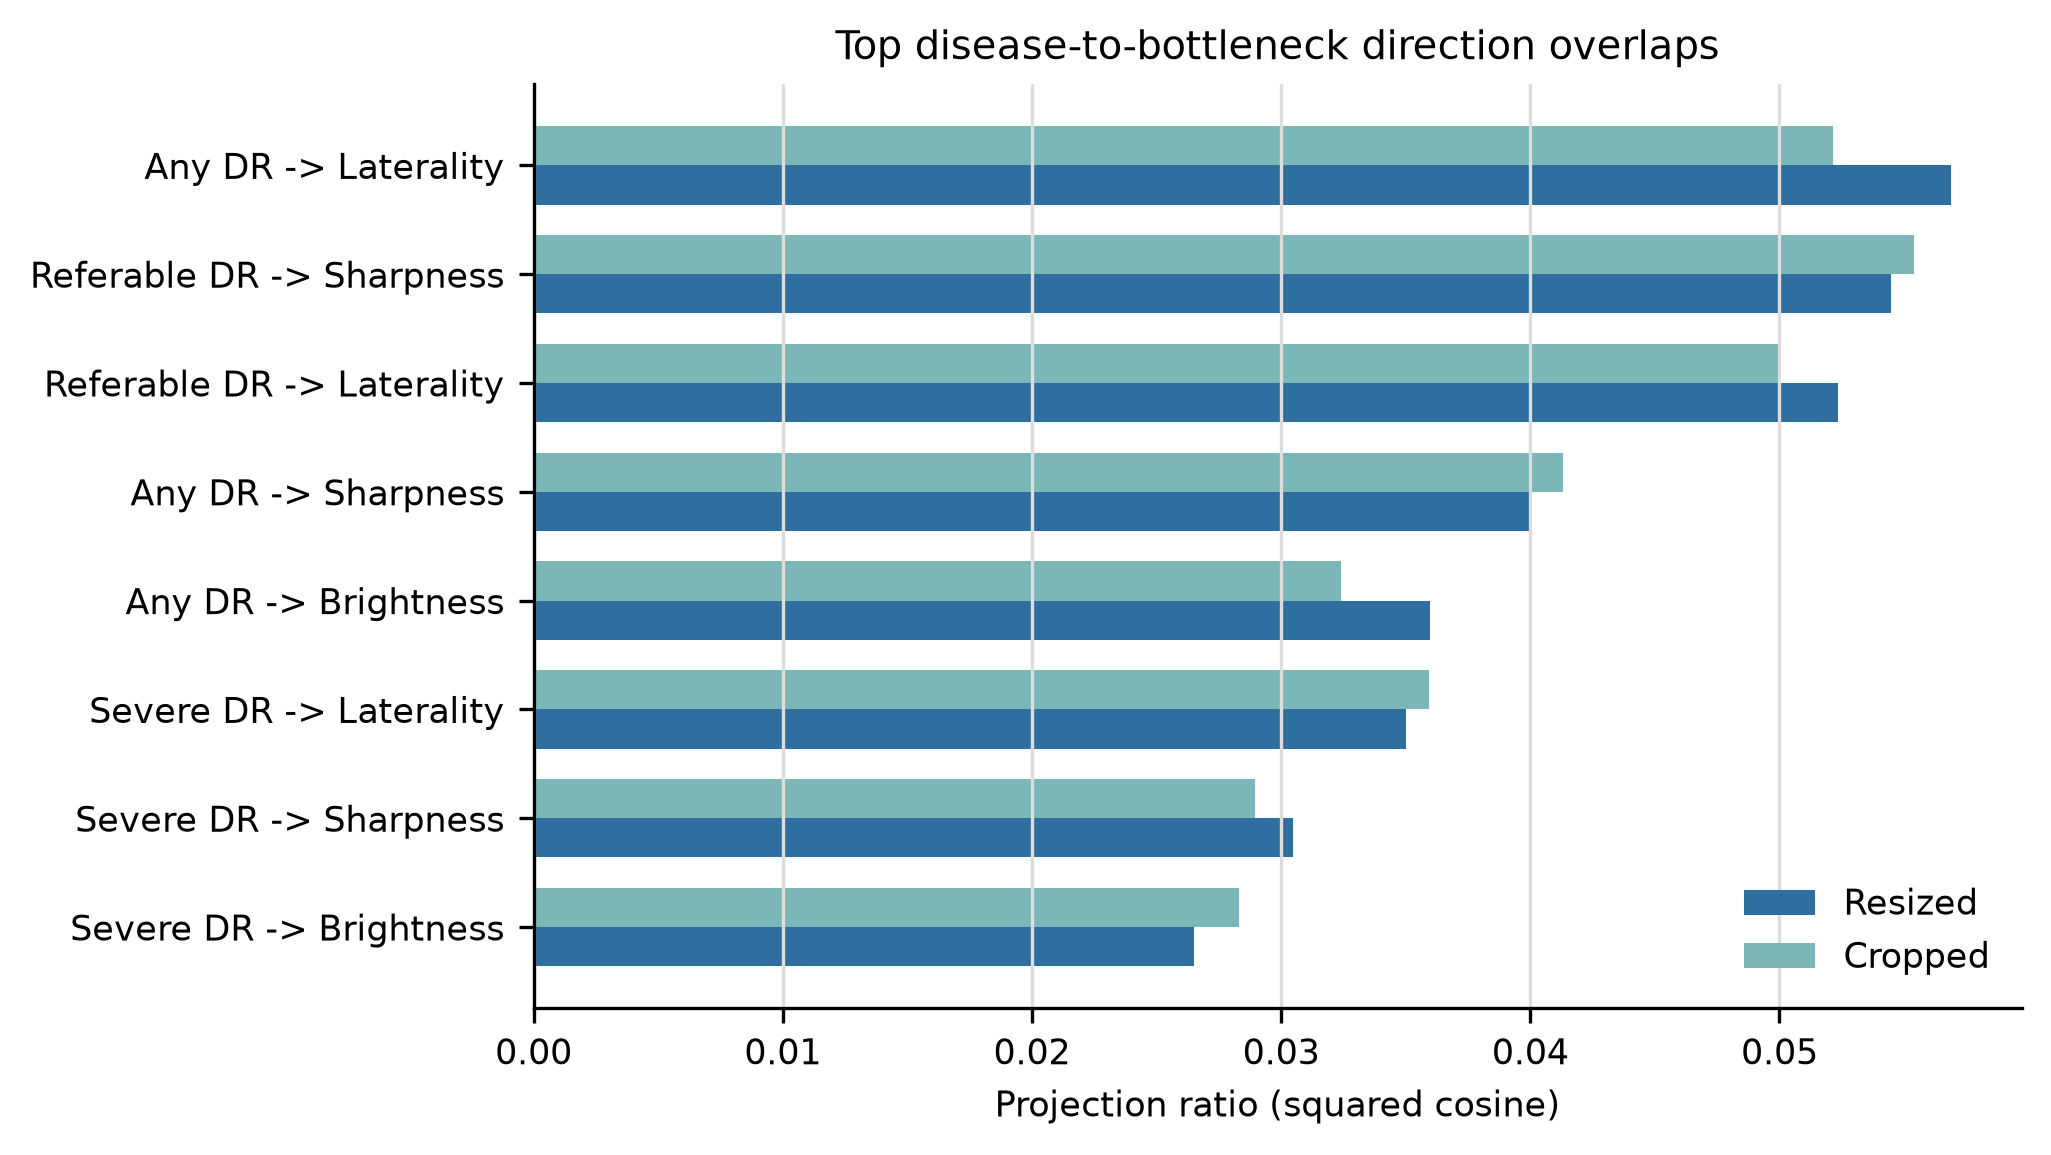
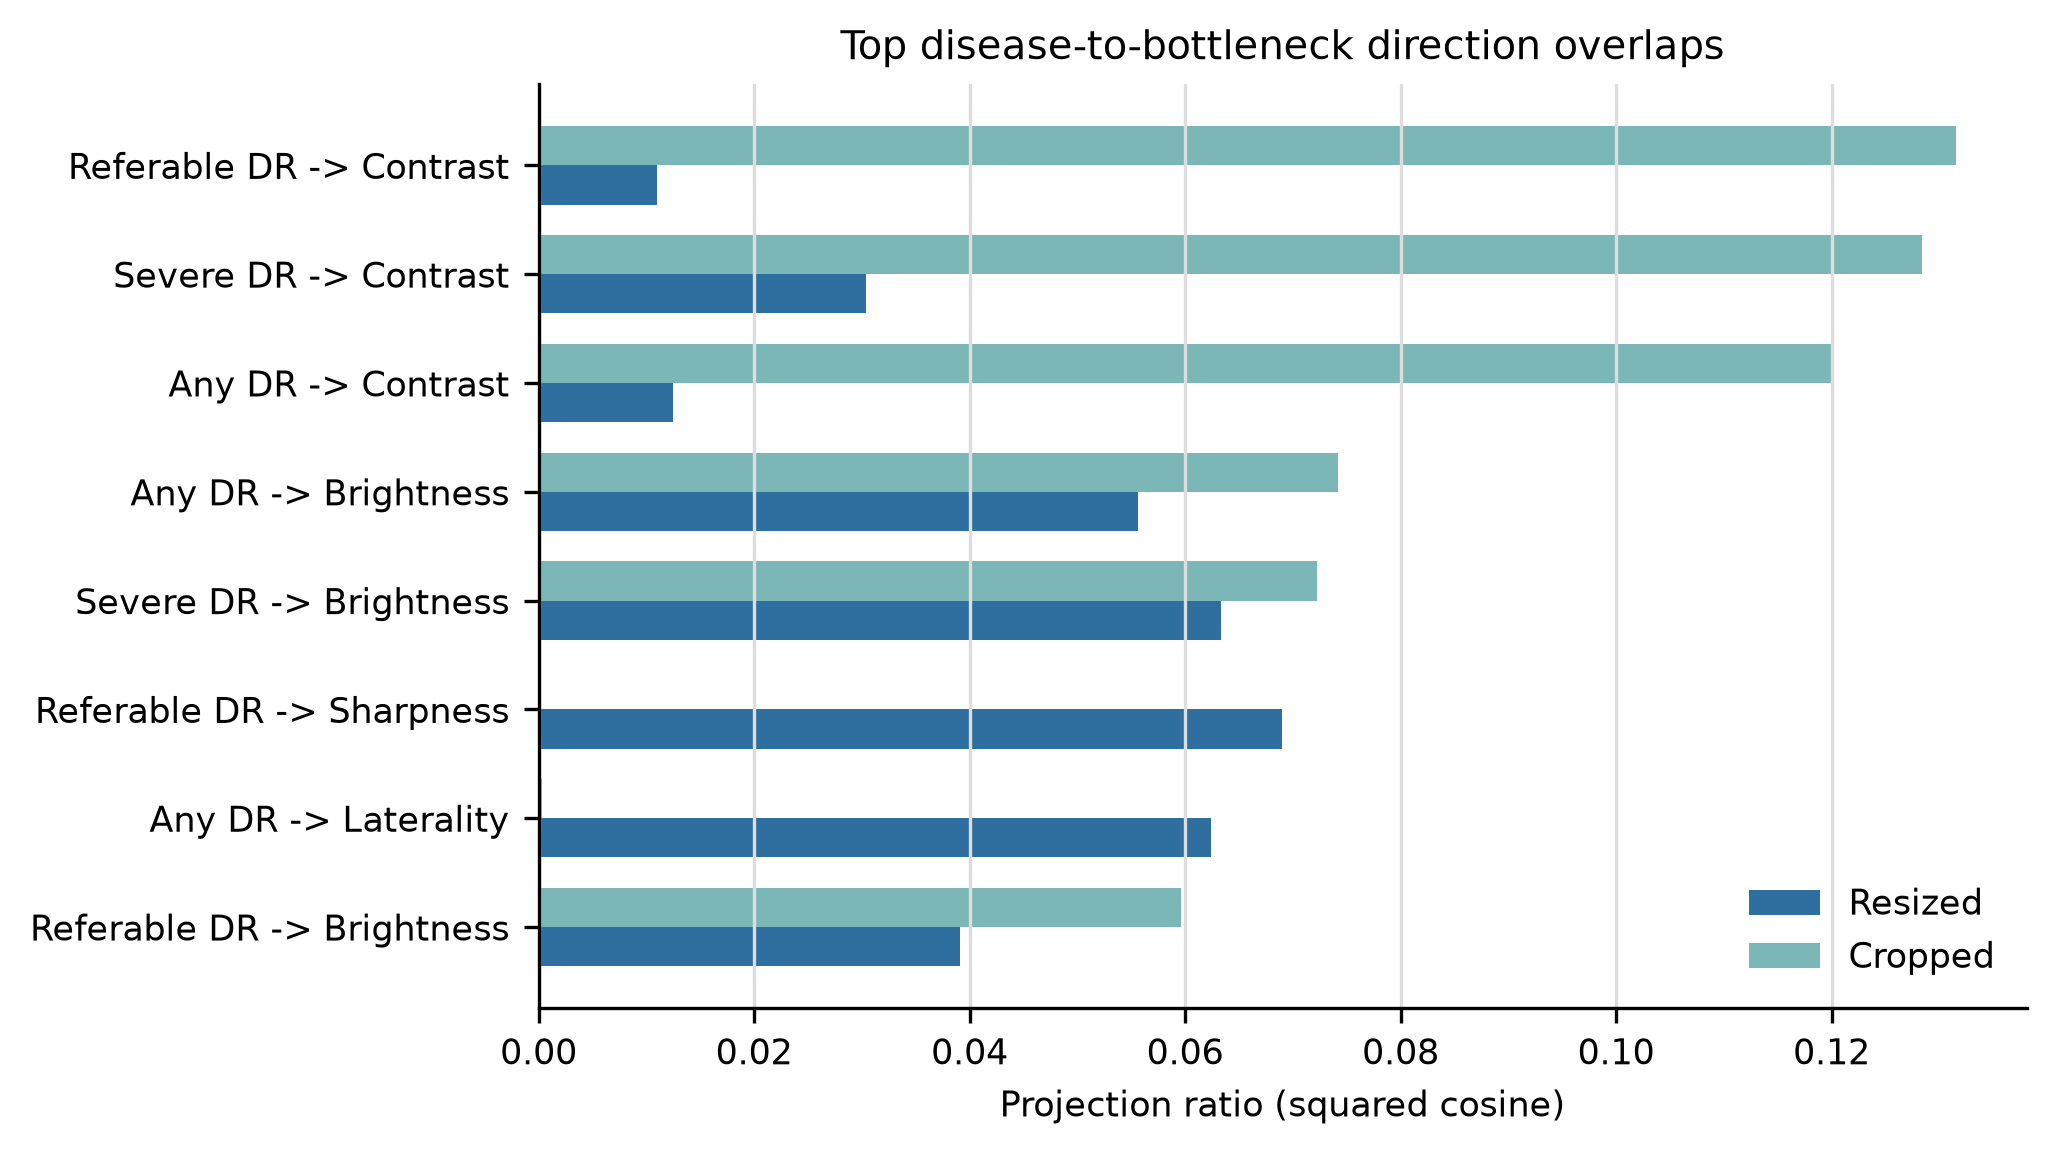
fix(figures): update 07_make_figures.py to use full 35k run names; regenerate submission figures
All hardcoded 10k run names replaced with full/35k equivalents throughout.
Regenerated dr_probe_auc_comparison, top_projection_ratios, and
residualization_auc_delta figures from 35k data. Updated combined tables.

diff --git a/scripts/07_make_figures.py b/scripts/07_make_figures.py
@@ -12,20 +12,20 @@ DISEASE_LABELS = {
     "severe_dr": "Severe DR",
 }
 RUN_LABELS = {
-    "eyepacs_resized_dinov2_resized_10k": "Resized",
-    "eyepacs_cropped_dinov2_cropped_10k": "Cropped",
-    "eyepacs_resized_dinov2_resized_10k_resid_remove_sharpness_laterality": "Resized - S/L",
-    "eyepacs_cropped_dinov2_cropped_10k_resid_remove_sharpness_laterality": "Cropped - S/L",
+    "eyepacs_resized_dinov2_resized_full": "Resized",
+    "eyepacs_cropped_dinov2_cropped_35k": "Cropped",
+    "eyepacs_resized_dinov2_resized_full_resid_remove_sharpness_laterality": "Resized - S/L",
+    "eyepacs_cropped_dinov2_cropped_35k_resid_remove_sharpness_laterality": "Cropped - S/L",
 }
 BASELINE_RUNS = [
-    "eyepacs_resized_dinov2_resized_10k",
-    "eyepacs_cropped_dinov2_cropped_10k",
+    "eyepacs_resized_dinov2_resized_full",
+    "eyepacs_cropped_dinov2_cropped_35k",
 ]
 INTERVENTION_RUNS = [
-    "eyepacs_resized_dinov2_resized_10k",
-    "eyepacs_resized_dinov2_resized_10k_resid_remove_sharpness_laterality",
-    "eyepacs_cropped_dinov2_cropped_10k",
-    "eyepacs_cropped_dinov2_cropped_10k_resid_remove_sharpness_laterality",
+    "eyepacs_resized_dinov2_resized_full",
+    "eyepacs_resized_dinov2_resized_full_resid_remove_sharpness_laterality",
+    "eyepacs_cropped_dinov2_cropped_35k",
+    "eyepacs_cropped_dinov2_cropped_35k_resid_remove_sharpness_laterality",
 ]
 BOTTLENECK_LABELS = {
     "sharpness": "Sharpness",
@@ -145,14 +145,14 @@ def _save_projection_figure(projection, figure_dir: Path) -> Path:
     fig, ax = plt.subplots(figsize=(6.4, 4.0))
     ax.barh(
         y - height / 2,
-        pivot["eyepacs_resized_dinov2_resized_10k"],
+        pivot["eyepacs_resized_dinov2_resized_full"],
         height=height,
         color="#2f6f9f",
         label="Resized",
     )
     ax.barh(
         y + height / 2,
-        pivot["eyepacs_cropped_dinov2_cropped_10k"],
+        pivot["eyepacs_cropped_dinov2_cropped_35k"],
         height=height,
         color="#7cb7b8",
         label="Cropped",
@@ -182,13 +182,13 @@ def _save_residualization_figure(probes, figure_dir: Path) -> Path:
     ]
     run_pairs = [
         (
-            "eyepacs_resized_dinov2_resized_10k",
-            "eyepacs_resized_dinov2_resized_10k_resid_remove_sharpness_laterality",
+            "eyepacs_resized_dinov2_resized_full",
+            "eyepacs_resized_dinov2_resized_full_resid_remove_sharpness_laterality",
             "Resized",
         ),
         (
-            "eyepacs_cropped_dinov2_cropped_10k",
-            "eyepacs_cropped_dinov2_cropped_10k_resid_remove_sharpness_laterality",
+            "eyepacs_cropped_dinov2_cropped_35k",
+            "eyepacs_cropped_dinov2_cropped_35k_resid_remove_sharpness_laterality",
             "Cropped",
         ),
     ]